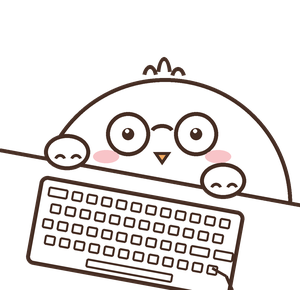
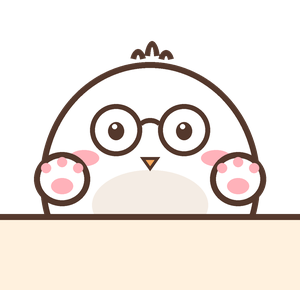
stable 0.8.6.0
- New bird in the window header, Bongo Cat style: a chubby white bird with glasses peeks over a ledge with its wings up, and bonks the ledge with one wing (happy eyes) for every key auto-play sends.

diff --git a/tools/draw_bird.py b/tools/draw_bird.py
@@ -1,99 +1,96 @@
-# Draws the typing bird (Bongo Cat style) in three frames: idle, left wing down, right wing down.
+# Draws the typing bird, Steam Bongo Cat style: a chubby white bird with glasses peeking over a ledge,
+# wings up while resting, one wing bonking the ledge per key. Three frames: idle, left, right.
 # Usage: python -I tools/draw_bird.py images [preview.png]
-import math
 import sys
 from PIL import Image, ImageDraw
 
 S = 4                      # supersampling
 W, H = 300, 290
-INK = (70, 46, 36, 255)
+INK = (84, 56, 44, 255)
 WHITE = (255, 255, 255, 255)
-CHEEK = (248, 196, 200, 255)
-BEAK = (243, 170, 96, 255)
-LW = 4                     # outline width before supersampling
-
-# The desk edge slants down to the right, like the Bongo Cat gif.
-DESK_L, DESK_R = 150, 205
-TILT = math.degrees(math.atan2(DESK_R - DESK_L, W))
+SHADE = (244, 236, 228, 255)
+PINK = (255, 178, 186, 255)
+BEAK = (247, 168, 92, 255)
+LEDGE = (255, 241, 222, 255)
+LW = 6                     # outline width before supersampling
+LEDGE_Y = 214              # top of the ledge the bird peeks over
 
 
 def s(v): return [round(c * S) for c in v]
 
 
-def desk_y(x): return DESK_L + (DESK_R - DESK_L) * x / W
-
-
-def layer(w, h):
-    img = Image.new("RGBA", (w * S, h * S), (0, 0, 0, 0))
+def layer():
+    img = Image.new("RGBA", (W * S, H * S), (0, 0, 0, 0))
     return img, ImageDraw.Draw(img)
 
 
-def mitt(w, h, feathers):
-    # A round wing tip with little feather scallops along its front edge.
-    img, d = layer(w + 4, h + 4)
-    d.ellipse(s((2, 2, w, h)), fill=WHITE, outline=INK, width=LW * S)
-    step = w / (feathers + 1)
-    for i in range(1, feathers + 1):
-        x = 2 + step * i
-        d.arc(s((x - 6, h - 16, x + 6, h - 4)), 200, 340, fill=INK, width=3 * S)
-    return img
+def line(d, pts, w=LW):
+    d.line(s(pts), fill=INK, width=w * S, joint="curve")
+    for x, y in (pts[:2], pts[-2:]):   # round caps
+        r = w / 2
+        d.ellipse(s((x - r, y - r, x + r, y + r)), fill=INK)
 
 
-def keyboard():
-    kw, kh = 210, 92
-    img, d = layer(kw + 4, kh + 4)
-    d.rounded_rectangle(s((2, 2, kw, kh)), radius=8 * S, fill=WHITE, outline=INK, width=LW * S)
-    # Plain line-art keys like the gif: four rows, a wide key or two, and the space bar.
-    for row in range(4):
-        y = 12 + row * 16
-        x = 12 + (row % 2) * 5
-        while x < kw - 20:
-            w = 20 if (row == 0 and x < 20) or (row == 2 and x > kw - 50) else 11
-            d.rounded_rectangle(s((x, y, x + w, y + 10)), radius=2 * S, outline=INK, width=2 * S)
-            x += w + 4
-    d.rounded_rectangle(s((62, 76, 150, 85)), radius=2 * S, outline=INK, width=2 * S)
-    return img.rotate(-TILT, expand=True, resample=Image.BICUBIC)
+def body(d):
+    d.ellipse(s((40, 62, 260, 300)), fill=WHITE, outline=INK, width=LW * S)
+    d.ellipse(s((92, 170, 208, 240)), fill=SHADE)          # soft belly shade
+    # Head tuft: three soft curls.
+    for x, h in ((138, 14), (152, 22), (166, 13)):
+        d.arc(s((x - 8, 63 - h, x + 8, 63 + h)), 200, 340, fill=INK, width=LW * S)
+
+
+def face(d, happy):
+    for cx in (116, 184):
+        d.ellipse(s((cx - 26, 104, cx + 26, 156)), outline=INK, width=5 * S)   # glasses
+        if happy:
+            d.arc(s((cx - 11, 124, cx + 11, 142)), 200, 340, fill=INK, width=5 * S)  # ^ ^
+        else:
+            d.ellipse(s((cx - 8, 122, cx + 8, 140)), fill=INK)
+            d.ellipse(s((cx - 4, 124, cx + 1, 129)), fill=WHITE)
+    d.arc(s((138, 118, 162, 134)), 200, 340, fill=INK, width=5 * S)          # bridge
+    for cx in (84, 216):
+        d.ellipse(s((cx - 15, 150, cx + 15, 166)), fill=PINK)                 # blush
+    if happy:   # beak open mid-bonk
+        d.polygon(s((140, 156, 160, 156, 150, 166)), fill=BEAK, outline=INK, width=3 * S)
+        d.polygon(s((143, 168, 157, 168, 150, 176)), fill=BEAK, outline=INK, width=3 * S)
+    else:
+        d.polygon(s((140, 157, 160, 157, 150, 171)), fill=BEAK, outline=INK, width=3 * S)
+
+
+def ledge(d):
+    d.rounded_rectangle(s((-20, LEDGE_Y, W + 20, H + 30)), radius=18 * S, fill=LEDGE, outline=INK, width=LW * S)
+
+
+def wing_up(d, cx):
+    # Raised wing tip, round like a paw, with pink pads on its face.
+    d.ellipse(s((cx - 28, LEDGE_Y - 62, cx + 28, LEDGE_Y - 8)), fill=WHITE, outline=INK, width=LW * S)
+    d.ellipse(s((cx - 11, LEDGE_Y - 36, cx + 11, LEDGE_Y - 20)), fill=PINK)
+    for dx, dy in ((-16, -46), (0, -52), (16, -46)):
+        d.ellipse(s((cx + dx - 5, LEDGE_Y + dy - 5, cx + dx + 5, LEDGE_Y + dy + 5)), fill=PINK)
+
+
+def wing_down(d, cx, side):
+    # Flattened wing squashed on the ledge, with little bonk lines.
+    d.ellipse(s((cx - 36, LEDGE_Y - 18, cx + 36, LEDGE_Y + 20)), fill=WHITE, outline=INK, width=LW * S)
+    for dx in (-14, 2, 18):
+        d.arc(s((cx + dx - 7, LEDGE_Y - 2, cx + dx + 7, LEDGE_Y + 14)), 200, 340, fill=INK, width=3 * S)
+    out = -1 if side == "left" else 1
+    for ang in (-1, 0, 1):
+        x0 = cx + out * (44 + abs(ang) * 2)
+        y0 = LEDGE_Y - 4 + ang * 16
+        line(d, (x0, y0, x0 + out * 14, y0 + ang * 6), 4)
 
 
 def frame(down):
-    img, d = layer(W, H)
-    # A wide white blob peeking over the desk; the desk below hides its lower half.
-    d.ellipse(s((38, 78, 292, 330)), fill=WHITE, outline=INK, width=LW * S)
-    # Head tuft: three little curls on top.
-    for x, h in ((150, 14), (164, 22), (178, 12)):
-        d.arc(s((x - 8, 79 - h, x + 8, 79 + h)), 200, 340, fill=INK, width=LW * S)
-    # Round glasses with dot eyes, pink cheeks, a small beak.
-    for cx in (128, 196):
-        d.ellipse(s((cx - 22, 112, cx + 22, 156)), outline=INK, width=LW * S)
-        d.ellipse(s((cx - 6, 128, cx + 6, 140)), fill=INK)
-        d.ellipse(s((cx - 3, 129, cx + 1, 133)), fill=WHITE)
-    d.arc(s((150, 124, 174, 140)), 200, 340, fill=INK, width=LW * S)
-    for cx in (106, 218):
-        d.ellipse(s((cx - 13, 150, cx + 13, 163)), fill=CHEEK)
-    d.polygon(s((153, 152, 171, 152, 162, 165)), fill=BEAK, outline=INK, width=3 * S)
-
-    # Cut the body off below the desk edge; the desk itself stays see-through so it sits on the window colour.
-    cut = Image.new("L", img.size, 0)
-    ImageDraw.Draw(cut).polygon(s((0, DESK_L, W, DESK_R, W, H, 0, H)), fill=255)
-    img.paste((0, 0, 0, 0), mask=cut)
-    d.line(s((0, DESK_L, W, DESK_R)), fill=INK, width=LW * S)
-
-    kb = keyboard()
-    img.alpha_composite(kb, (22 * S, 172 * S))
-    d.line(s((212, 268, 226, 276, 232, 290)), fill=INK, width=3 * S)
-
-    # Resting wings sit up on the desk edge; the typing one slaps down onto the keys.
-    for side, x in (("left", 66), ("right", 222)):
+    img, d = layer()
+    body(d)
+    face(d, happy=down is not None)
+    ledge(d)
+    for side, cx in (("left", 62), ("right", 238)):
         if side == down:
-            w = mitt(70, 44, 3).rotate(-28 if side == "left" else 28, expand=True, resample=Image.BICUBIC)
-            if side == "left":
-                pos = (34, 168)
-            else:
-                pos = (176, 184)
+            wing_down(d, 84 if side == "left" else 216, side)
         else:
-            w = mitt(48, 38, 2)
-            pos = (x - 24, desk_y(x) - 30)
-        img.alpha_composite(w, (round(pos[0] * S), round(pos[1] * S)))
+            wing_up(d, cx)
     return img.resize((W, H), Image.LANCZOS)
 
 

diff --git a/KeyboundBrawler/MainWindow.cs b/KeyboundBrawler/MainWindow.cs
@@ -30,6 +30,10 @@ public sealed class MainWindow : Window
     private string? dumpResult;
     private int pushedColors;
     private int pushedVars;
+    private static readonly TimeSpan BonkTime = TimeSpan.FromMilliseconds(110);
+    private int lastTyped;
+    private int bonks;
+    private DateTime bonkUntil;
 
     public MainWindow(Plugin plugin) : base("Keybound Brawler Helper###kbb")
     {
@@ -107,10 +111,15 @@ public sealed class MainWindow : Window
 
     private void DrawHeader()
     {
-        // The bird behind its desk taps a wing for every key auto-play sends, and rests otherwise.
+        // Bongo Cat style: every key auto-play sends bonks one wing down for a moment, then both wings go back up.
         var auto0 = plugin.AutoPlayer;
-        var frame = auto0.Enabled && auto0.CurrentWord != null && auto0.TypedCount > 0
-            ? (auto0.TypedCount % 2 == 1 ? "left" : "right") : "idle";
+        var typed = auto0.Enabled ? auto0.TypedCount : 0;
+        if (typed != lastTyped)
+        {
+            if (typed > lastTyped) { bonks++; bonkUntil = DateTime.UtcNow + BonkTime; }
+            lastTyped = typed;
+        }
+        var frame = DateTime.UtcNow < bonkUntil ? (bonks % 2 == 1 ? "left" : "right") : "idle";
         var birdPath = Path.Combine(Plugin.PluginInterface.AssemblyLocation.DirectoryName ?? "", $"bird_{frame}.png");
         if (File.Exists(birdPath))
         {
